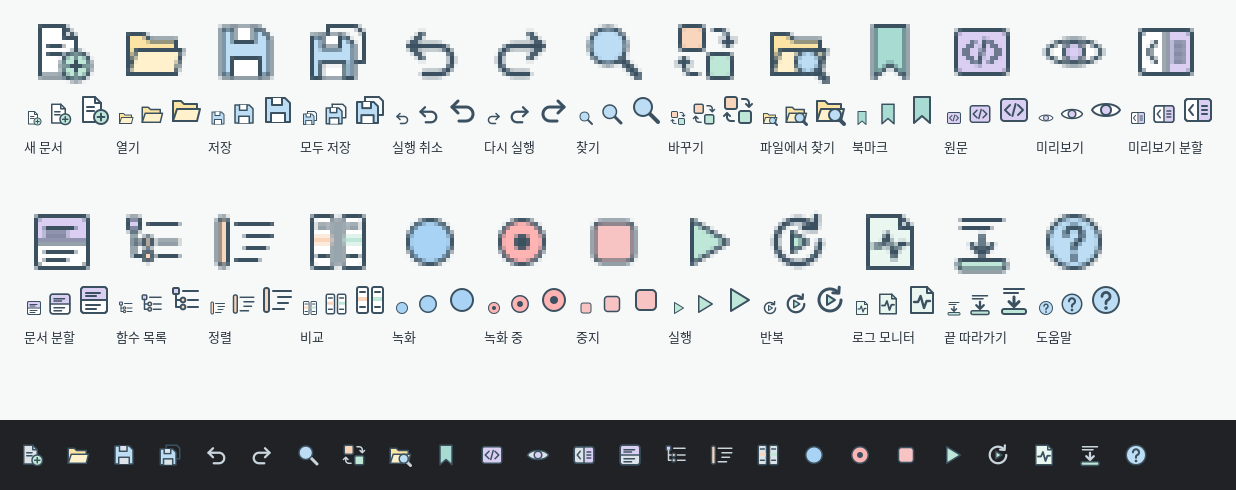
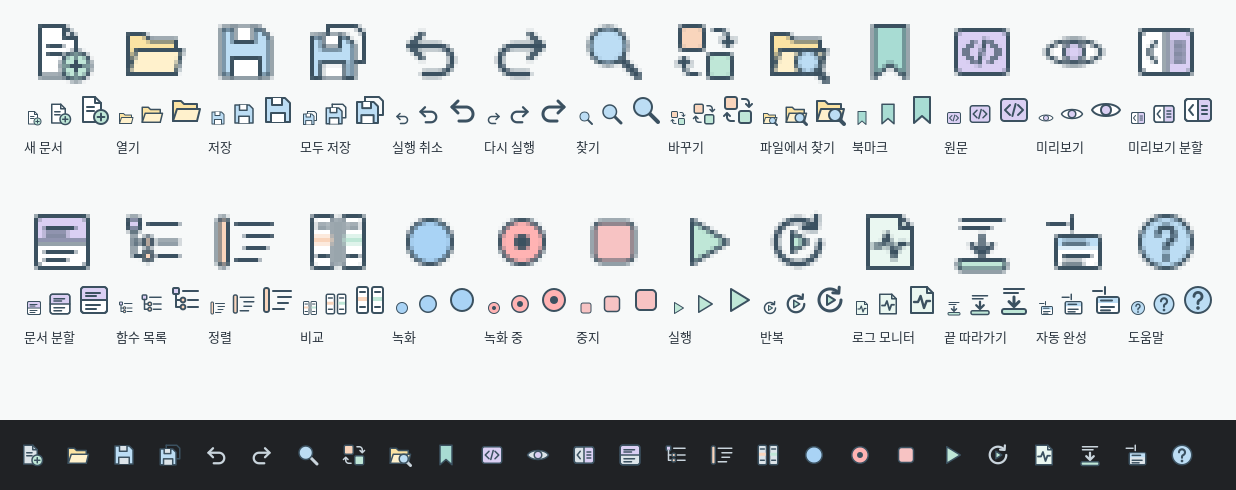
자동 완성 켜기/끄기 툴바 버튼과 메뉴 항목 추가
편집 중 자동 완성을 자주 끄고 켤 수 있도록 툴바 버튼(켜짐 = 눌린 상태)과
편집 → 입력할 때 자동 완성 체크 항목을 추가했다. 끌 때 열린 목록은 닫는다.
아이콘은 기존 SVG 규칙으로 그린 AutoComplete(밝은·어두운 세트 12개).

Claude-Session: https://claude.ai/code/session_01Tp4xDRhLM2Ctrar7HbAUKt

diff --git a/tools/toolbar-icons/make.py b/tools/toolbar-icons/make.py
@@ -86,6 +86,10 @@ icons = {
  "FollowTail": (lines(3, 13, [2.5], True) + lines(3, 10, [4.5], True) +
                 f'<path d="M8 6.5 V11 M5.5 8.8 L8 11.3 L10.5 8.8" fill="none" stroke="{OUTER}" stroke-width="1.5" stroke-linecap="round" stroke-linejoin="round"/>'
                 f'<rect x="2" y="12.5" width="12" height="2.5" rx="1" fill="{C["mint"]}" {S}/>'),
+ "AutoComplete": (f'<path d="M1.5 3.5 H6" {SO}/><path d="M7.5 1.5 V5" {SO}/>'
+                  f'<rect x="3.5" y="6.5" width="11" height="8" rx="1" fill="{C["page"]}" {S}/>'
+                  f'<rect x="4" y="7" width="10" height="2.5" fill="{C["sky"]}"/>'
+                  f'<path d="M5.5 8.25 H11" {S}/>' + lines(5.5, 12, [11.5]) + lines(5.5, 10, [13.2])),
  "Help": (f'<circle cx="8" cy="8" r="6.5" fill="{C["sky"]}" {S}/>'
           f'<path d="M6 6.2 A2 2 0 1 1 8.9 8 C8.3 8.3 8 8.7 8 9.4 V9.8" fill="none" stroke="{INK}" stroke-width="1.4" stroke-linecap="round"/>'
           f'<circle cx="8" cy="12" r="0.9" fill="{INK}"/>'),
@@ -102,8 +106,8 @@ for name, body in icons.items():
         cairosvg.svg2png(bytestring=dark.encode(), write_to=os.path.join(OUT_DIR, f"{name}-dark-{s}.png"), output_width=s, output_height=s)
 print(len(icons), "icons")
 # preview sheet: each icon at 16, 24, 32 actual pixels plus 4x zoom of 16 on light toolbar background
-order = ["NewFile","Open","Save","SaveAll","Undo","Redo","Find","Replace","FindInFiles","Bookmark","Source","Preview","Split","SplitEditor","Outline","Format","Compare","Record","RecordActive","Stop","Play","Repeat","Monitor","FollowTail","Help"]
-labels = {"NewFile":"새 문서","Open":"열기","Save":"저장","SaveAll":"모두 저장","Undo":"실행 취소","Redo":"다시 실행","Find":"찾기","Replace":"바꾸기","FindInFiles":"파일에서 찾기","Bookmark":"북마크","Source":"원문","Preview":"미리보기","Split":"미리보기 분할","SplitEditor":"문서 분할","Outline":"함수 목록","Format":"정렬","Compare":"비교","Record":"녹화","RecordActive":"녹화 중","Stop":"중지","Play":"실행","Repeat":"반복","Monitor":"로그 모니터","FollowTail":"끝 따라가기","Help":"도움말"}
+order = ["NewFile","Open","Save","SaveAll","Undo","Redo","Find","Replace","FindInFiles","Bookmark","Source","Preview","Split","SplitEditor","Outline","Format","Compare","Record","RecordActive","Stop","Play","Repeat","Monitor","FollowTail","AutoComplete","Help"]
+labels = {"NewFile":"새 문서","Open":"열기","Save":"저장","SaveAll":"모두 저장","Undo":"실행 취소","Redo":"다시 실행","Find":"찾기","Replace":"바꾸기","FindInFiles":"파일에서 찾기","Bookmark":"북마크","Source":"원문","Preview":"미리보기","Split":"미리보기 분할","SplitEditor":"문서 분할","Outline":"함수 목록","Format":"정렬","Compare":"비교","Record":"녹화","RecordActive":"녹화 중","Stop":"중지","Play":"실행","Repeat":"반복","Monitor":"로그 모니터","FollowTail":"끝 따라가기","AutoComplete":"자동 완성","Help":"도움말"}
 assert set(order) == set(icons)
 fontpath = None
 for p in ["/usr/share/fonts/truetype/nanum/NanumGothic.ttf","/usr/share/fonts/opentype/noto/NotoSansCJK-Regular.ttc","/usr/share/fonts/truetype/noto/NotoSansCJK-Regular.ttc"]:

diff --git a/cpp/app.cpp b/cpp/app.cpp
@@ -20,6 +20,7 @@ static const std::vector<std::pair<int, std::wstring>> toolbarItems = {
     {Split, L"미리보기 좌우 분할 (Ctrl+Alt+V)"},
     {SplitEditor, L"같은 문서 위아래 분할"},
     {OutlinePanel, L"함수 목록"},
+    {AutoCompleteToggle, L"입력할 때 자동 완성 켜기 / 끄기 (목록은 Ctrl+Space)"},
     {0, L""},
     {Format, L"문서 정렬 (Ctrl+Alt+F)"},
     {Compare, L"두 탭 비교 (Ctrl+Alt+C)"},
@@ -120,6 +121,7 @@ void App::buildMenu() {
     item(e, ToggleComment, L"주석 넣기 / 빼기\tCtrl+Q");
     item(e, BraceJump, L"짝 괄호로 이동\tCtrl+B");
     item(e, Complete, L"자동 완성 목록\tCtrl+Space");
+    item(e, AutoCompleteToggle, L"입력할 때 자동 완성");
     sep(e);
     item(e, AutoIndent, L"자동 들여쓰기");
     auto s = root(L"검색(&S)");
@@ -265,7 +267,7 @@ static HBITMAP buttonBitmap(int id, int size) {
         {Format, L"Format"},     {Compare, L"Compare"},     {Record, L"Record"},
         {-Record, L"RecordActive"}, {MacroStop, L"Stop"},   {Play, L"Play"},
         {Repeat, L"Repeat"},     {Monitor, L"Monitor"},     {FollowTail, L"FollowTail"},
-        {Help, L"Help"}};
+        {AutoCompleteToggle, L"AutoComplete"}, {Help, L"Help"}};
     if (auto it = artwork.find(id); it != artwork.end()) {
         auto folder = exeDir() / L"data" / L"toolbar";
         fs::path best;
@@ -709,6 +711,7 @@ void App::update() {
     check(ResultsPanel, resultsVisible);
     check(OutlinePanel, outlineVisible);
     check(DarkMode, darkMode);
+    check(AutoCompleteToggle, autoComplete);
     check(SplitEditor, d && d->secondary);
     check(WhiteSpace, whiteSpace);
     check(EolVisible, eolVisible);
@@ -718,8 +721,9 @@ void App::update() {
     check(FollowTail, d && d->follow);
     check(Scripts, d && d->scripts);
     check(Wrap, d && d->editor && sci(d->editor, SCI_GETWRAPMODE));
-    for (int id : {Source, Preview, Split, Monitor, FollowTail, SplitEditor, OutlinePanel}) {
-        bool checked = id == OutlinePanel ? outlineVisible
+    for (int id : {Source, Preview, Split, Monitor, FollowTail, SplitEditor, OutlinePanel, AutoCompleteToggle}) {
+        bool checked = id == OutlinePanel         ? outlineVisible
+                       : id == AutoCompleteToggle ? autoComplete
                        : !d              ? false
                        : id == Source    ? d->viewMode == 0
                        : id == Preview   ? d->viewMode == 1
@@ -982,6 +986,11 @@ void App::command(int id) {
             break;
         case Complete:
             showCompletion(true);
+            break;
+        case AutoCompleteToggle:
+            autoComplete = !autoComplete;
+            if (!autoComplete && d && d->editor && sci(d->editor, SCI_AUTOCACTIVE))
+                sci(d->editor, SCI_AUTOCCANCEL);
             break;
         case Find:
             showFind(false);

diff --git a/cpp/tests.cpp b/cpp/tests.cpp
@@ -869,6 +869,13 @@ int runTests(App &a, bool full) {
             a.completion = {};
             a.showCompletion(false);
             check(!sci(h, SCI_AUTOCACTIVE), "Turning auto-completion off stops the automatic list");
+            a.command(AutoCompleteToggle);
+            check(a.autoComplete && SendMessageW(a.toolbar, TB_ISBUTTONCHECKED, AutoCompleteToggle, 0) &&
+                      (GetMenuState(a.menu, AutoCompleteToggle, MF_BYCOMMAND) & MF_CHECKED),
+                  "Toolbar button turns auto-completion on and shows the pressed state");
+            a.command(AutoCompleteToggle);
+            check(!a.autoComplete && !SendMessageW(a.toolbar, TB_ISBUTTONCHECKED, AutoCompleteToggle, 0),
+                  "Toolbar button turns auto-completion off again");
             a.autoComplete = true;
             a.recording = true;
             a.showCompletion(false);

diff --git a/cpp/app.h b/cpp/app.h
@@ -99,6 +99,7 @@ enum Command {
     OutlinePanel,
     DarkMode,
     Complete,
+    AutoCompleteToggle,
     FoldLevel = 300,
     UnfoldLevel = 310,
     EncodingReopen = 400,

diff --git a/README.md b/README.md
@@ -73,7 +73,7 @@ Scintilla.dll, Lexilla.dll, WebView2Loader.dll, data 폴더를 실행 파일 옆
 | 같은 문서 분할 | `보기 → 같은 문서 위아래 분할`. 한 문서를 위아래 두 화면으로 보고 어느 쪽에서든 편집합니다. 클릭한 화면에 명령이 적용됩니다. 미리보기 모드를 켜면 분할이 풀립니다. |
 | 함수 목록 | `보기 → 함수 목록`. 오른쪽 패널에 함수·클래스·Markdown 제목 등을 줄 번호와 함께 표시하고 클릭하면 이동합니다. C/C++/C#/Java/JavaScript/TypeScript/PHP/Python/SQL/Go/Rust/Ruby/Perl/VB/Lua/셸/PowerShell/배치/INI를 지원합니다. 줄 단위 규칙으로 찾는 간이 목록이라 문법 분석기만큼 정확하지는 않습니다. 편집 후 잠시 뒤 갱신되며 패널 표시 여부는 세션에 저장됩니다. |
 | 다크 모드 | `보기 → 다크 모드`. 처음 실행할 때는 Windows의 앱 모드(밝게/어둡게)를 따르고 이후에는 선택이 세션에 저장됩니다. 편집기, Hex 보기, 제목 표시줄, 메뉴, 툴바(밝은 윤곽선 아이콘), 탭, 상태 표시줄, 검색 결과·함수 목록 패널, 스크롤바가 어두워집니다. 언어별 구문 색은 같은 색조의 밝은 색으로 자동 변환하며 기본 배경 대비 4.5:1 이상을 유지합니다. 찾기·설정·입력·정보·비교 창과 메시지 상자도 어두워집니다. 글꼴 선택 창은 Windows 기본 창이라 밝게 남습니다. |
-| 자동 완성 | 단어를 3글자 이상 입력하면 문서 안의 단어와 현재 언어의 키워드 목록이 뜹니다. `Ctrl+Space`로 언제든 띄울 수 있습니다. Enter·Tab으로 넣고 Esc로 닫습니다. 대소문자를 구분하지 않고 걸러 주며 한글 단어도 제안합니다. `도구 → 설정`에서 끄거나 시작 글자 수(1~10)를 바꿉니다. 매크로 녹화 중에는 자동으로 뜨지 않습니다. |
+| 자동 완성 | 단어를 3글자 이상 입력하면 문서 안의 단어와 현재 언어의 키워드 목록이 뜹니다. `Ctrl+Space`로 언제든 띄울 수 있습니다. Enter·Tab으로 넣고 Esc로 닫습니다. 대소문자를 구분하지 않고 걸러 주며 한글 단어도 제안합니다. 툴바의 자동 완성 버튼(눌린 상태 = 켜짐)이나 `편집 → 입력할 때 자동 완성`으로 바로 켜고 끄며, `도구 → 설정`에서 시작 글자 수(1~10)를 바꿉니다. 매크로 녹화 중에는 자동으로 뜨지 않습니다. |
 | 일치 개수 | 찾기 창의 `일치 개수` 버튼으로 현재 텍스트/Hex 문서 전체의 총 일치 개수를 표시합니다. 커서·선택 영역과 문서 내용은 유지합니다. |
 
 | 매크로 | Ctrl+Shift+R로 녹화 시작/중지, Ctrl+Shift+P로 실행. 지정 횟수 또는 문서 끝까지 반복, Esc 중지, 이름 저장·관리. |

diff --git a/docs/RELEASE-1.6.0.md b/docs/RELEASE-1.6.0.md
@@ -6,6 +6,7 @@
 - 후보: 문서 앞 8 MiB의 3~80바이트 단어(숫자로 시작하는 토큰 제외) + 현재 언어의 Notepad++ 키워드(`langs.xml`의 모든 `Keywords`). 대소문자를 구분하지 않는 순서로 최대 500개, 입력한 단어와 똑같은 항목은 뺀다. 단어 목록은 문서별로 캐시하며 문서가 바뀐 뒤 1.5초가 지나야 다시 읽는다(키마다 전체를 다시 읽지 않기 위해).
 - 목록이 떠 있을 때 Enter는 줄바꿈·자동 들여쓰기 대신 선택 항목을 넣는다. Tab도 넣고 Esc는 닫는다. 일치 항목이 없으면 목록이 자동으로 닫힌다.
 - 여러 커서, 로그 모니터링, 200 MiB 초과 대용량, 매크로 실행 중에는 띄우지 않는다. 매크로 녹화 중에는 자동으로 띄우지 않는다(화살표 키가 목록에 쓰여 녹화 내용이 화면과 달라지는 것을 막기 위해). `Ctrl+Space`는 동작한다.
+- 툴바 버튼과 `편집 → 입력할 때 자동 완성`으로 바로 켜고 끈다(켜져 있으면 버튼이 눌린 상태). 아이콘은 같은 SVG 규칙으로 추가했다(`AutoComplete`, 밝은·어두운 세트).
 - `도구 → 설정`: 입력할 때 자동 완성 목록 표시(`AutoComplete`), 시작 글자 수 1~10(`CompleteMinChars`). 세션에 저장한다.
 - 다크 모드에서 목록 색(글자, 배경, 선택)을 팔레트로 칠한다.
 
